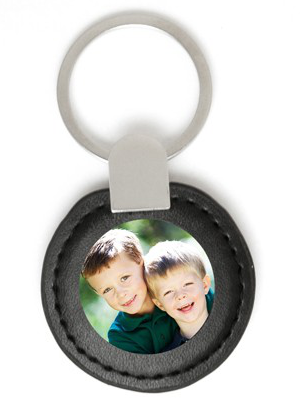
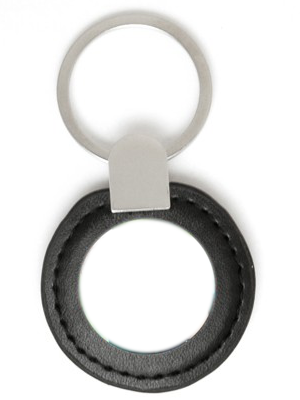
Check out the calvin key chain db:migrate rake kimbra_pieces:accessories

Changed region(s): [[0.24, 0.54, 0.72, 0.9]]

diff --git a/app/models/admin/merchandise/piece.rb b/app/models/admin/merchandise/piece.rb
@@ -4,7 +4,7 @@ class Admin::Merchandise::Piece < ActiveRecord::Base
                   :category, :name, :short_description, :description_markup,
                   :sku, :price, :photo, :custom_layout,
                   :active, :featured, :deleted_at,
-                  :width, :height
+                  :width, :height, :use_part_image
 
   mount_uploader :image, ImageUploader
 
@@ -82,7 +82,13 @@ class Admin::Merchandise::Piece < ActiveRecord::Base
   end
 
   def get_image
-    image.to_image
+    if use_part_image?
+      # use the background image from the part instead of the
+      #   default kimbra piece
+      parts.first.image_part.to_image
+    else
+      image.to_image
+    end
   end
 
   def category_view

diff --git a/db/schema.rb b/db/schema.rb
@@ -11,7 +11,7 @@
 #
 # It's strongly recommended to check this file into your version control system.
 
-ActiveRecord::Schema.define(:version => 20121229150438) do
+ActiveRecord::Schema.define(:version => 20121229164950) do
 
   create_table "address_types", :force => true do |t|
     t.string   "name"
@@ -162,6 +162,7 @@ ActiveRecord::Schema.define(:version => 20121229150438) do
     t.datetime "created_at"
     t.datetime "updated_at"
     t.boolean  "photo"
+    t.boolean  "use_part_image"
   end
 
   add_index "admin_merchandise_pieces", ["name", "category"], :name => "index_admin_merchandise_pieces_on_name_and_category", :unique => true

diff --git a/db/migrate/20121229164950_add_use_part_to_admin_merchandise_pieces.rb b/db/migrate/20121229164950_add_use_part_to_admin_merchandise_pieces.rb
@@ -1,0 +1,5 @@
+class AddUsePartToAdminMerchandisePieces < ActiveRecord::Migration
+  def change
+    add_column :admin_merchandise_pieces, :use_part_image, :boolean
+  end
+end
